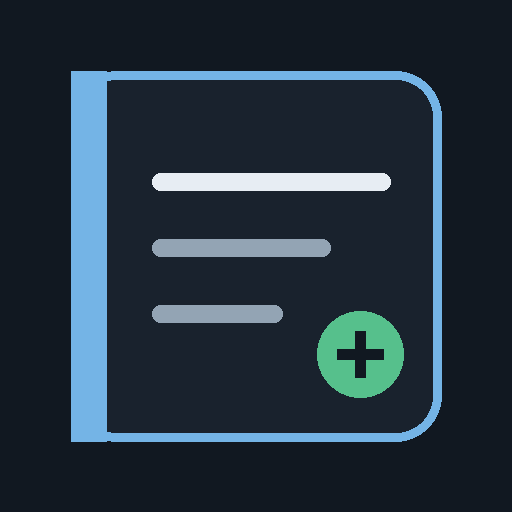
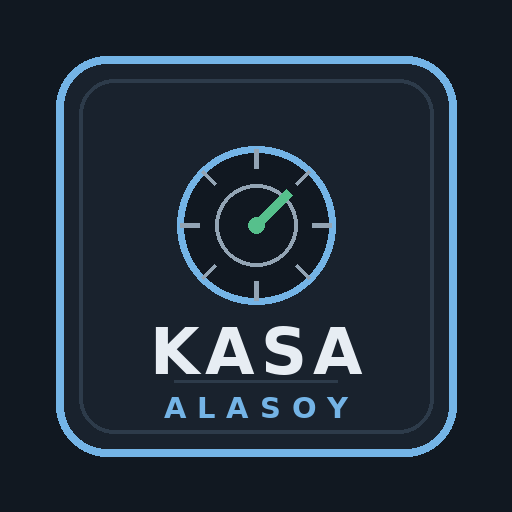
Uygulama adi KASA oldu, ikon yenilendi
- Ana ekran adi: KASA (eski: Defter)
- Ikon: kasa kapagi ve kadran, uzerinde KASA ve ALASOY yazisi
- CSV ve yedek dosya adlari kasa-* oldu

Claude-Session: https://claude.ai/code/session_019fZZauPaRkpGKyR8Y6sGoz

Changed region(s): [[0.0938, 0.0938, 0.9062, 0.9062]]

diff --git a/app.js b/app.js
@@ -1,4 +1,4 @@
-/* Harcama Defteri — offline gelir/gider defteri. design by alasoy
+/* KASA — offline gelir/gider defteri. design by alasoy
    Veriler telefonun kendi hafızasında (localStorage) tutulur, hiçbir yere gönderilmez. */
 (function(){
 "use strict";
@@ -15,7 +15,7 @@ var AYLAR=["Ocak","Şubat","Mart","Nisan","Mayıs","Haziran","Temmuz","Ağustos"
 var GUNLER=["Pazar","Pazartesi","Salı","Çarşamba","Perşembe","Cuma","Cumartesi"];
 var TAKSITLER=[1,2,3,4,5,6,8,9,10,12,18,24];
 var ANAHTAR="harcama-defteri-v1";
-var SURUM_ADI="1.3";
+var SURUM_ADI="1.4";
 
 // kategori anahtar kelimeleri (yerel çözümleyici için)
 var IPUCU_GIDER=[
@@ -980,7 +980,7 @@ function csvIndir(){
       (s.r.isyeri||"").replace(/;/g,","),
       s.adet>1?(s.sira+"/"+s.adet):"peşin",nf.format(s.pay),nf.format(s.r.tutar)].join(";"));
   });
-  dosyaIndir("harcama-"+ayKey(yil,ay)+".csv","text/csv;charset=utf-8",""+out.join("\r\n"));
+  dosyaIndir("kasa-"+ayKey(yil,ay)+".csv","text/csv;charset=utf-8",""+out.join("\r\n"));
 }
 function dosyaIndir(adi,tip,icerik){
   try{
@@ -1006,7 +1006,7 @@ function cizAyarlar(govde){
 
   var b1=el("button","ana genis","Yedek al (JSON)"); b1.type="button";
   b1.addEventListener("click",function(){
-    dosyaIndir("harcama-defteri-yedek-"+iso(new Date())+".json","application/json",
+    dosyaIndir("kasa-yedek-"+iso(new Date())+".json","application/json",
       JSON.stringify({surum:1,tarih:new Date().toISOString(),veri:veri},null,1));
   });
   govde.appendChild(b1);
@@ -1070,7 +1070,7 @@ function cizAyarlar(govde){
   });
   govde.appendChild(yenile);
 
-  govde.appendChild(el("p","bilgi","Harcama Defteri · sürüm "+SURUM_ADI+" · offline · design by alasoy"));
+  govde.appendChild(el("p","bilgi","KASA · sürüm "+SURUM_ADI+" · tamamen cihazda · design by alasoy"));
 }
 
 // ---------------------------------------------------------------- menü

diff --git a/index.html b/index.html
@@ -3,12 +3,12 @@
 <head>
 <meta charset="utf-8">
 <meta name="viewport" content="width=device-width,initial-scale=1,viewport-fit=cover">
-<title>Harcama Defteri</title>
-<meta name="description" content="Offline çalışan gelir-gider defteri">
+<title>KASA</title>
+<meta name="description" content="KASA — gelir, gider, taksit ve alacak-borç takibi">
 <meta name="theme-color" content="#111821">
 <meta name="apple-mobile-web-app-capable" content="yes">
 <meta name="apple-mobile-web-app-status-bar-style" content="black-translucent">
-<meta name="apple-mobile-web-app-title" content="Defter">
+<meta name="apple-mobile-web-app-title" content="KASA">
 <link rel="manifest" href="manifest.webmanifest">
 <link rel="apple-touch-icon" href="icon-192.png">
 <link rel="icon" href="icon-192.png">
@@ -18,7 +18,7 @@
 
 <div id="ev">
   <div class="ust">
-    <h1 id="selam">Harcama Defteri</h1>
+    <h1 id="selam">KASA</h1>
     <span class="imza">design by alasoy</span>
   </div>
 

diff --git a/sw.js b/sw.js
@@ -1,7 +1,7 @@
-/* Harcama Defteri — service worker.
+/* KASA — service worker.
    Uygulama dosyaları: önce ağ, olmazsa önbellek (güncellemeler anında gelsin).
    İnternet yoksa her şey önbellekten çalışır. */
-var SURUM = "defter-v5";
+var SURUM = "kasa-v6";
 var DOSYALAR = [
   "./",
   "./index.html",

diff --git a/README.md b/README.md
@@ -1,4 +1,4 @@
-# Harcama Defteri — offline telefon uygulaması
+# KASA — offline harcama takip uygulaması
 
 Tamamen çevrimdışı çalışan gelir-gider defteri. Veriler **sadece telefonun kendi hafızasında**
 durur, hiçbir sunucuya gönderilmez. Telefona kurulabilir (PWA), uygulamadan farkı yoktur.
